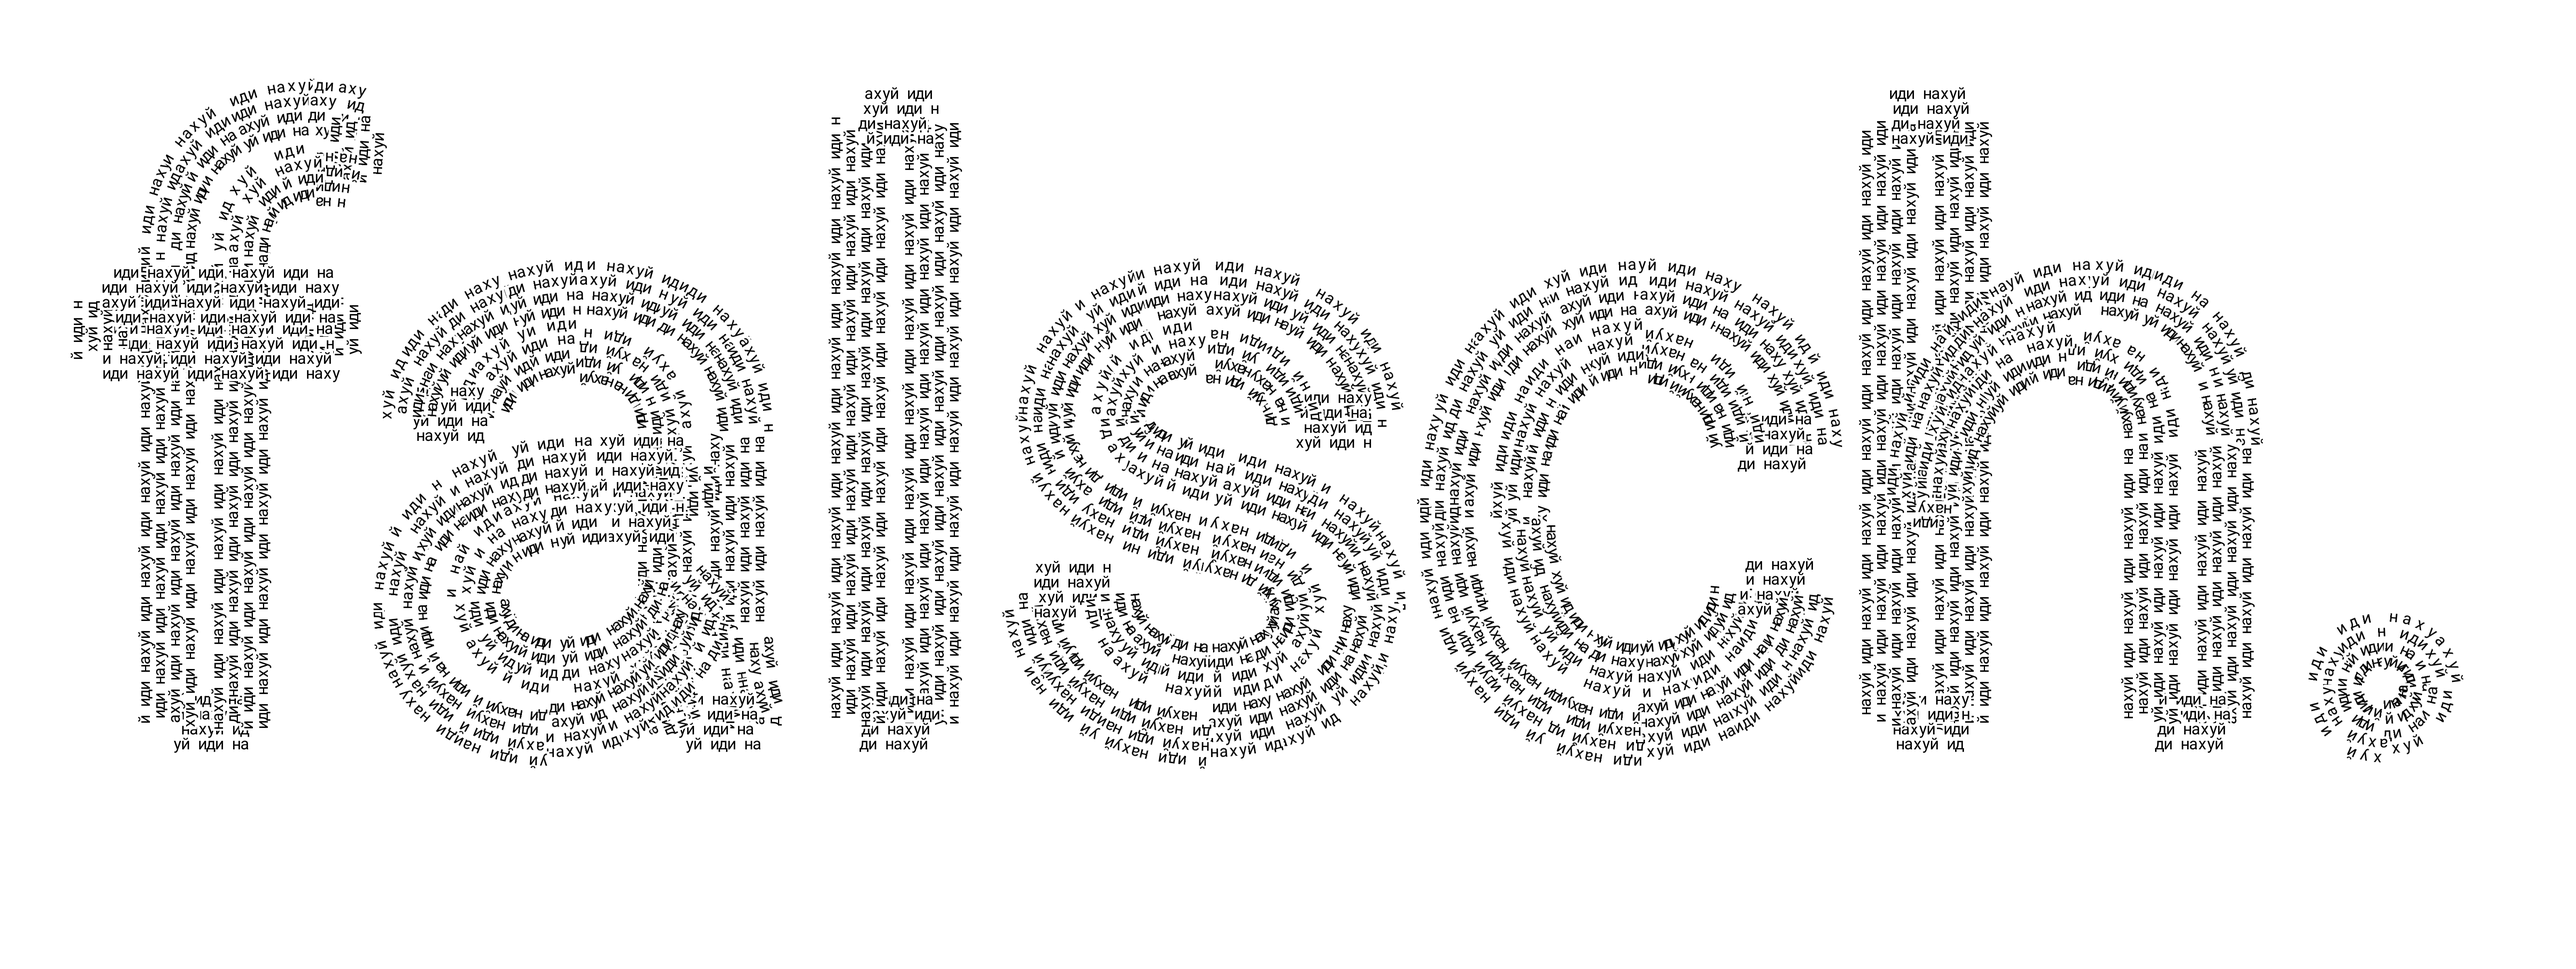
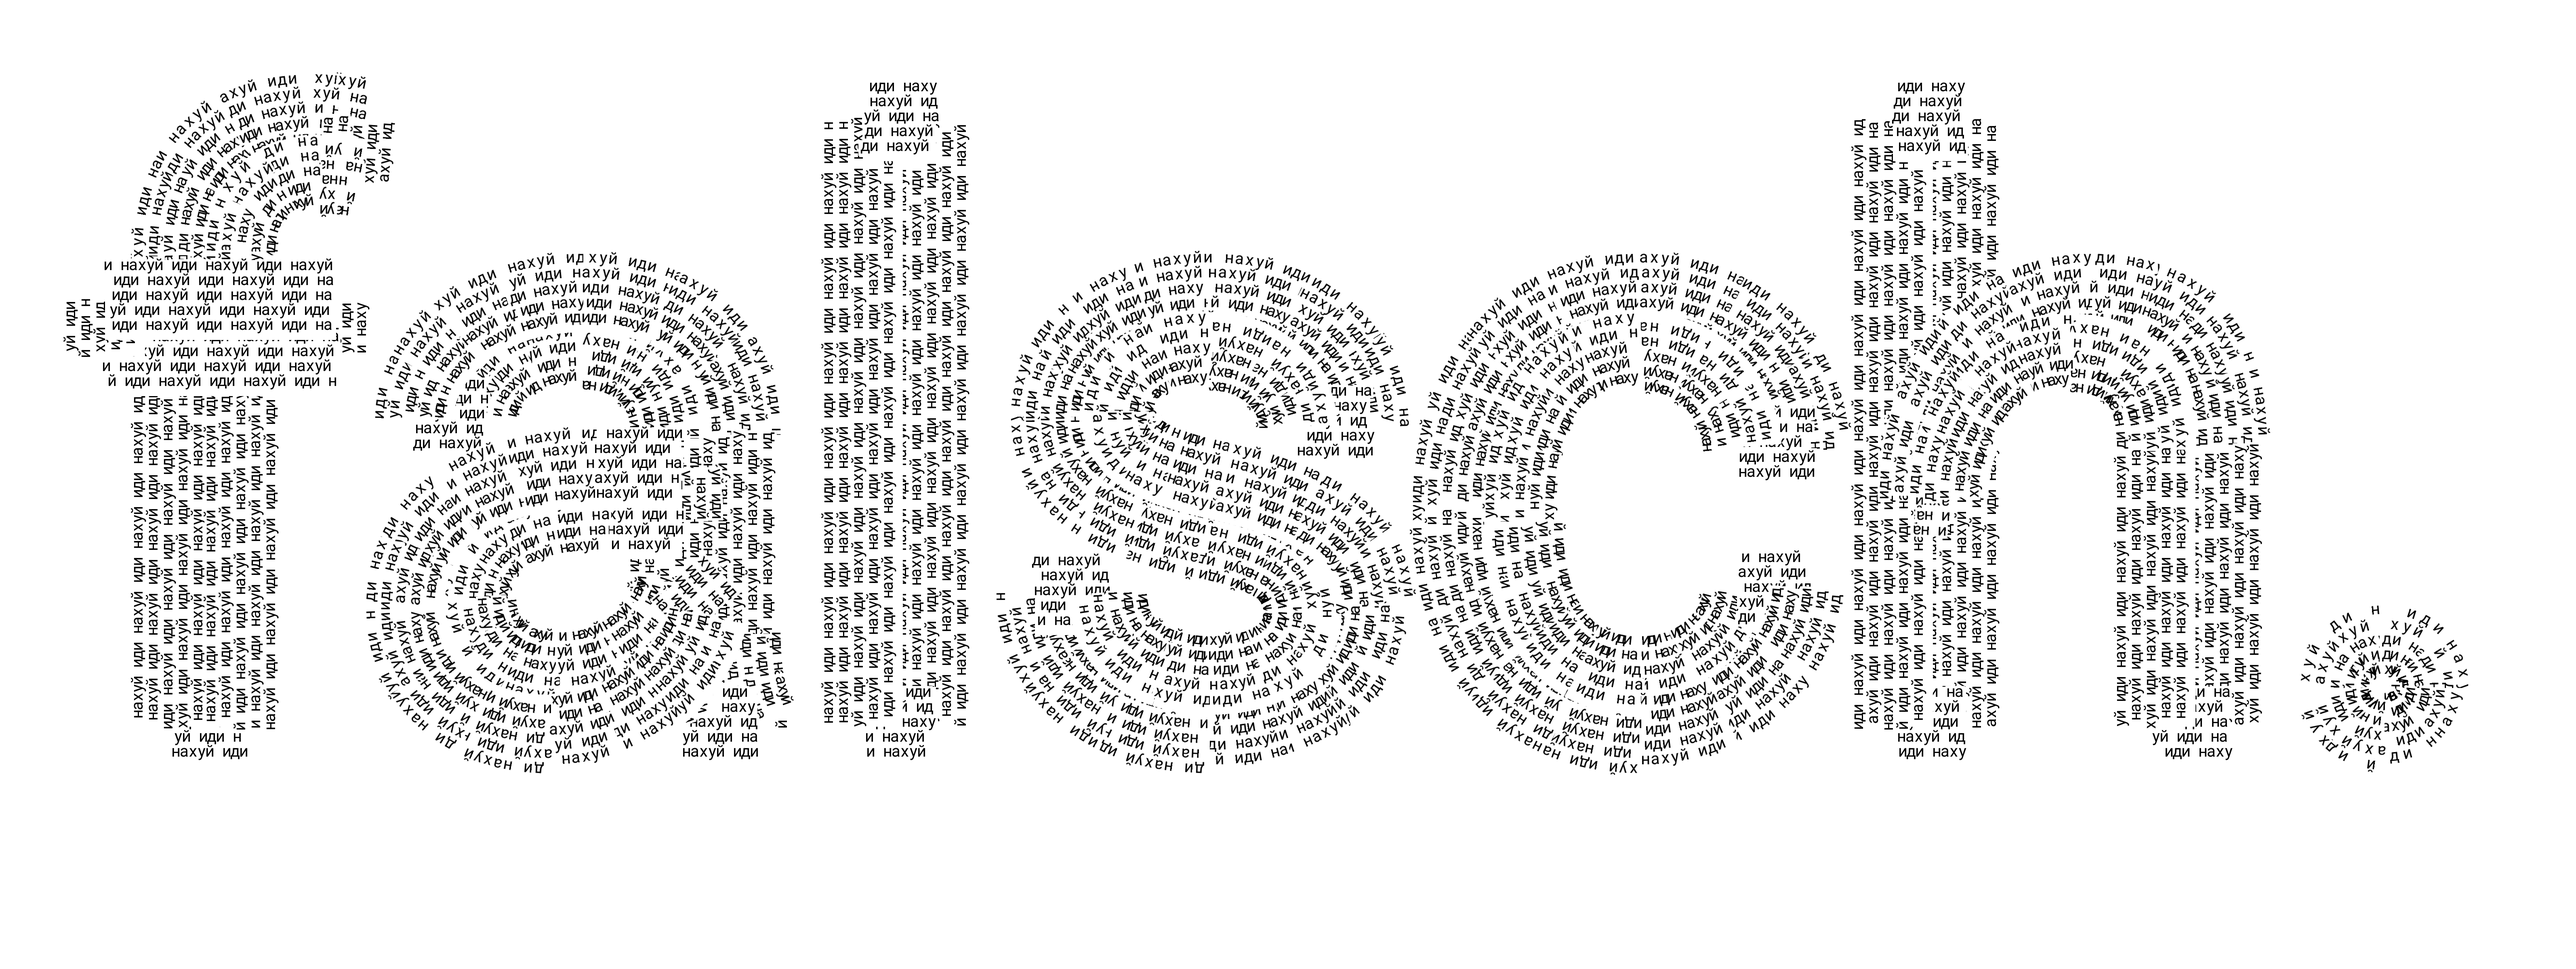
add askii rasterizer

Changed region(s): [[0.0312, 0.0625, 0.9674, 0.8125]]

diff --git a/renderer/text.go b/renderer/text.go
@@ -504,20 +504,19 @@ func (tr *TextRenderer) RenderTextWithFiller(settings RenderSettings, startX, ba
 	bgColor := color.RGBA{255, 255, 255, 255} // white background
 	bgPadding := 5.0                          // 5px padding around each letter's bbox
 
-	// PASS 1: Render solid background fill for main text letters
+	// PASS 1: Render fat dilated background for main text letters
 	if settings.BackgroundColor.A > 0 {
-		// Render main text to mask
 		maskCanvas := NewCanvas(tr.Canvas.Width, tr.Canvas.Height)
 		tr.renderMainTextFilled(settings, startX, baseline, maskCanvas)
 
-		// Calculate expansion based on filler rows (extra padding for fatter look)
+		// Calculate expansion for fat look
 		rowStep := fillerHeight + settings.RowSpacing
 		totalSpan := float64(numRows-1) * rowStep
-		expansion := int(math.Ceil(totalSpan/2+fillerHeight/2+bgPadding)) + 20 // extra fat
+		expansion := int(math.Ceil(totalSpan/2+fillerHeight/2+bgPadding)) + 20
 
 		w, h := tr.Canvas.Width, tr.Canvas.Height
 
-		// Precompute circular kernel offsets for rounded dilation
+		// Precompute circular kernel for rounded dilation
 		var circleOffsets [][2]int
 		for dy := -expansion; dy <= expansion; dy++ {
 			for dx := -expansion; dx <= expansion; dx++ {
@@ -527,13 +526,11 @@ func (tr *TextRenderer) RenderTextWithFiller(settings RenderSettings, startX, ba
 			}
 		}
 
-		// Dilate mask with circular kernel
+		// Dilate mask
 		dilatedMask := make([][]uint8, h)
 		for y := 0; y < h; y++ {
 			dilatedMask[y] = make([]uint8, w)
 		}
-
-		// For each mask pixel, expand to all circle offsets
 		for y := 0; y < h; y++ {
 			for x := 0; x < w; x++ {
 				a := maskCanvas.Img.RGBAAt(x, y).A
@@ -550,25 +547,28 @@ func (tr *TextRenderer) RenderTextWithFiller(settings RenderSettings, startX, ba
 			}
 		}
 
-		// Composite dilated mask
+		// Composite fat background
 		for y := 0; y < h; y++ {
 			for x := 0; x < w; x++ {
-				maxAlpha := dilatedMask[y][x]
-				if maxAlpha > 0 {
-					a := float64(maxAlpha) / 255.0
+				if a := dilatedMask[y][x]; a > 0 {
+					alpha := float64(a) / 255.0
 					existing := tr.Canvas.Img.RGBAAt(x, y)
-					newR := uint8(float64(existing.R)*(1-a) + float64(settings.BackgroundColor.R)*a)
-					newG := uint8(float64(existing.G)*(1-a) + float64(settings.BackgroundColor.G)*a)
-					newB := uint8(float64(existing.B)*(1-a) + float64(settings.BackgroundColor.B)*a)
-					newA := uint8(math.Min(255, float64(existing.A)+float64(settings.BackgroundColor.A)*a))
+					newR := uint8(float64(existing.R)*(1-alpha) + float64(settings.BackgroundColor.R)*alpha)
+					newG := uint8(float64(existing.G)*(1-alpha) + float64(settings.BackgroundColor.G)*alpha)
+					newB := uint8(float64(existing.B)*(1-alpha) + float64(settings.BackgroundColor.B)*alpha)
+					newA := uint8(math.Min(255, float64(existing.A)+float64(settings.BackgroundColor.A)*alpha))
 					tr.Canvas.Img.Set(x, y, color.RGBA{newR, newG, newB, newA})
 				}
 			}
 		}
 	}
 
-	// PASS 2: Render filler text along the curves
+	// PASS 2: Render per-segment tubes + filler text on top
 	cursorX := startX
+
+	// Calculate total row span for tube width
+	rowStep := fillerHeight + settings.RowSpacing
+	totalRowSpan := float64(numRows-1)*rowStep + fillerHeight + bgPadding*2
 
 	for _, mainRune := range settings.MainText {
 		mainSegments, advance, err := tr.getGlyphSegments(mainRune, settings.FontSize)
@@ -588,9 +588,55 @@ func (tr *TextRenderer) RenderTextWithFiller(settings RenderSettings, startX, ba
 				continue
 			}
 
-			// Create temporary canvases for this segment
-			// bgCanvas: white background rectangles (clears space for letters)
-			// letterCanvas: the actual filler letters
+			// Create a single canvas for this entire segment (background + text)
+			segmentCanvas := NewCanvas(tr.Canvas.Width, tr.Canvas.Height)
+
+			// Render tube-shaped background for this segment
+			if settings.BackgroundColor.A > 0 {
+				halfSpan := totalRowSpan / 2
+
+				// Sample points along curve to create tube polygon
+				numSamples := int(segLength/5) + 2
+				if numSamples < 10 {
+					numSamples = 10
+				}
+
+				// Build two edges of the tube (+ and - perpendicular offset)
+				plusEdge := make([]geom.Point, numSamples)
+				minusEdge := make([]geom.Point, numSamples)
+
+				for i := 0; i < numSamples; i++ {
+					t := float64(i) / float64(numSamples-1)
+					pos, tangent := seg.GetPointAndTangent(t)
+					perp := tangent.Perpendicular()
+
+					plusEdge[i] = geom.Point{
+						X: pos.X + cursorX + perp.X*halfSpan,
+						Y: baseline + pos.Y + perp.Y*halfSpan,
+					}
+					minusEdge[i] = geom.Point{
+						X: pos.X + cursorX - perp.X*halfSpan,
+						Y: baseline + pos.Y - perp.Y*halfSpan,
+					}
+				}
+
+				// Create polygon: plusEdge forward, minusEdge backward
+				rast := NewRasterizer(segmentCanvas)
+				for i := 0; i < numSamples-1; i++ {
+					rast.AddLine(plusEdge[i], plusEdge[i+1])
+				}
+				// Connect plus end to minus end
+				rast.AddLine(plusEdge[numSamples-1], minusEdge[numSamples-1])
+				// Minus edge backward
+				for i := numSamples - 1; i > 0; i-- {
+					rast.AddLine(minusEdge[i], minusEdge[i-1])
+				}
+				// Connect back to start
+				rast.AddLine(minusEdge[0], plusEdge[0])
+				rast.Fill(settings.BackgroundColor)
+			}
+
+			// Now render filler text on top of the segment canvas
 			bgCanvas := NewCanvas(tr.Canvas.Width, tr.Canvas.Height)
 			letterCanvas := NewCanvas(tr.Canvas.Width, tr.Canvas.Height)
 
@@ -649,11 +695,14 @@ func (tr *TextRenderer) RenderTextWithFiller(settings RenderSettings, startX, ba
 				}
 			}
 
-			// Composite this segment's layers onto main canvas:
+			// Composite filler text layers onto segment canvas:
 			// 1. First apply white backgrounds (clears space)
 			// 2. Then apply letters on top
-			tr.Canvas.CompositeOver(bgCanvas)
-			tr.Canvas.CompositeOver(letterCanvas)
+			segmentCanvas.CompositeOver(bgCanvas)
+			segmentCanvas.CompositeOver(letterCanvas)
+
+			// Composite entire segment (tube background + filler text) onto main canvas
+			tr.Canvas.CompositeOver(segmentCanvas)
 		}
 
 		cursorX += advance
